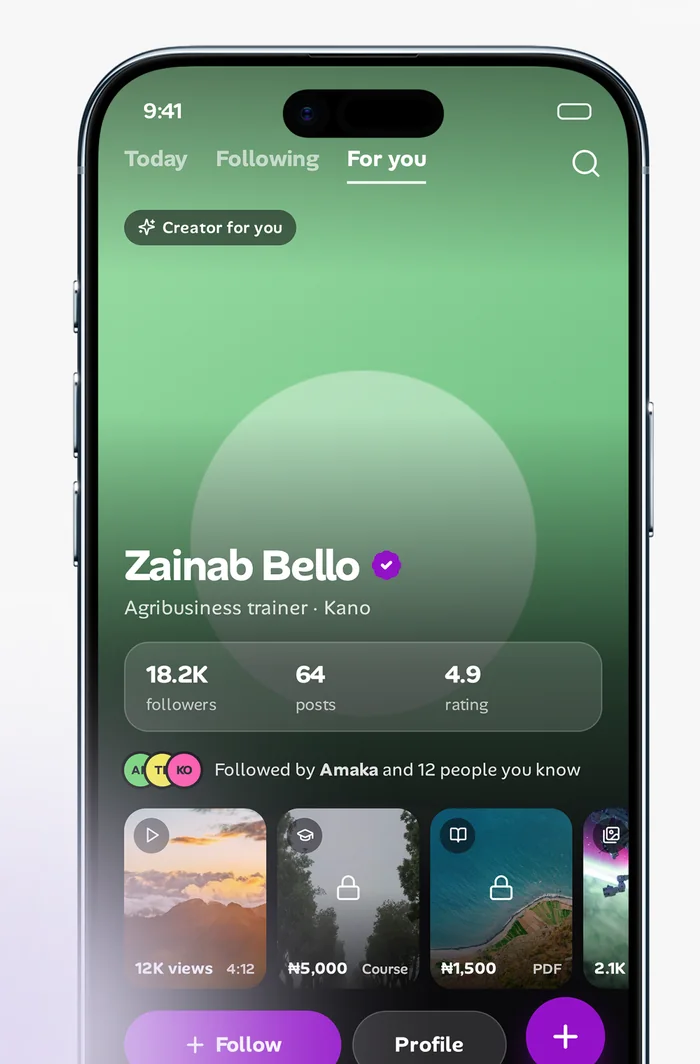
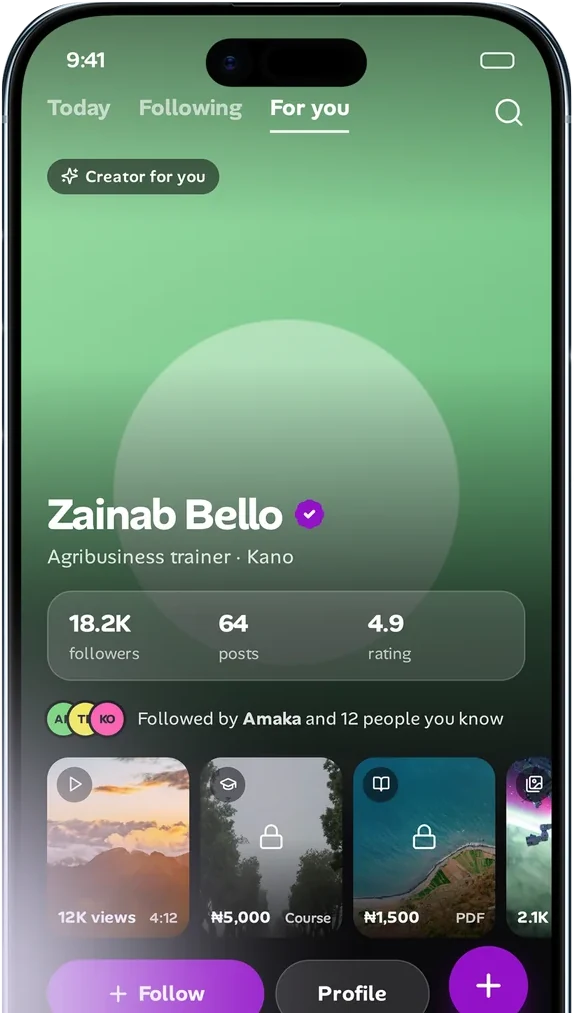
SITE-IMAGES: the owner's five app screenshots, phones on the section background, purple gradient instead of rings
Claude-Session: https://claude.ai/code/session_01YVWyVbutb6jEWsPXBkYeY9

diff --git a/src/app/(site)/_components/ScreenTile.tsx b/src/app/(site)/_components/ScreenTile.tsx
@@ -1,20 +1,26 @@
 import Image from "next/image";
 import { cn } from "@/lib/cn";
 
-export type ScreenId = "home" | "feed" | "creator" | "unlock";
+export type ScreenId = "today" | "wallet" | "dollar" | "explore" | "me" | "creator" | "unlock";
 
-/** The four WHO MADE THIS? screens the owner approved for the web (the store pictures, cropped to the phone). */
-export const WMT_SCREENS: Record<ScreenId, { alt: string; caption: string }> = {
-  home: { alt: "The Today screen in WHO MADE THIS?: a naira wallet with Send, Add and Scan, and shortcuts to Studio, Learn, Monetize and Legal.", caption: "Today: your wallet and everything you can do next." },
-  feed: { alt: "The For you feed in WHO MADE THIS?: a photo post with like, comment, save and tip buttons.", caption: "For you: work from creators, in photos, video and audio." },
-  creator: { alt: "A creator card in WHO MADE THIS?: followers, posts and rating, with a Follow button.", caption: "Follow the people whose work you like." },
-  unlock: { alt: "A paid PDF in WHO MADE THIS?: a preview of the cover, the price in naira and an Unlock button.", caption: "Unlock paid work: preview first, then pay from your wallet." },
+/**
+ * The WHO MADE THIS? screens on the site. Five are the owner's own phone screenshots (3 Nov 2026), and
+ * `creator` (Zainab Bello) and `unlock` (the paid PDF) are the two older ones he kept. Each file is cut to
+ * the phone with transparent corners, so it stands on the section's own background.
+ */
+export const WMT_SCREENS: Record<ScreenId, { alt: string; caption: string; width: number; height: number }> = {
+  today: { alt: "The Today screen in WHO MADE THIS?: a naira wallet with Send, Add and Scan, and shortcuts to Studio, Learn, Monetize and Legal.", caption: "Today: your wallet and everything you can do next.", width: 720, height: 1560 },
+  wallet: { alt: "The Wallet screen in WHO MADE THIS? on the Naira tab: a naira balance with account number, points, passes, and shortcuts to add money, send, withdraw and more.", caption: "Wallet: your naira balance, and what to do with it.", width: 720, height: 1560 },
+  dollar: { alt: "The Wallet screen in WHO MADE THIS? on its second tab: a balance with Send and Add buttons, a Get paid from abroad card and the latest transactions.", caption: "Wallet: get paid from abroad, and see every transaction.", width: 720, height: 1560 },
+  explore: { alt: "The Explore screen in WHO MADE THIS?: a featured event, the daily TGIF card, categories and creators to follow.", caption: "Explore: find creators, events and work.", width: 720, height: 1560 },
+  me: { alt: "A creator profile in WHO MADE THIS?: a photo, a bio, followers and following, and the creator's content.", caption: "Your profile: your work, your name.", width: 720, height: 1560 },
+  creator: { alt: "A creator card in WHO MADE THIS?: followers, posts and rating, with a Follow button.", caption: "Follow the people whose work you like.", width: 574, height: 1013 },
+  unlock: { alt: "A paid PDF in WHO MADE THIS?: a preview of the cover, the price in naira and an Unlock button.", caption: "Unlock paid work: preview first, then pay from your wallet.", width: 583, height: 1019 },
 };
 
 /**
- * One app screen in a rounded tile. The pictures are the owner's store
- * screenshots cropped to the phone, so the tile takes the picture's own
- * background (white or purple).
+ * One app screen, as the phone alone: no tile, panel or colour behind it. The
+ * soft shadow follows the phone's own rounded outline.
  */
 export function ScreenTile({
   id,
@@ -31,11 +37,11 @@ export function ScreenTile({
     <Image
       src={`/wawu-wmt-screen-${id}.webp`}
       alt={WMT_SCREENS[id].alt}
-      width={700}
-      height={1064}
+      width={WMT_SCREENS[id].width}
+      height={WMT_SCREENS[id].height}
       sizes={sizes}
       priority={priority}
-      className={cn("h-auto w-full rounded-[28px] shadow-site-screen", className)}
+      className={cn("site-shot h-auto w-full", className)}
     />
   );
 }

diff --git a/src/app/(site)/who-made-this/page.tsx b/src/app/(site)/who-made-this/page.tsx
@@ -57,7 +57,7 @@ export default function WhoMadeThisPage() {
               <ScreenTile id="unlock" sizes="(min-width: 1024px) 250px, 200px" />
             </div>
             <div className="site-float absolute right-0 top-0 w-[56%] rotate-[4deg] [--site-tilt:4deg]">
-              <ScreenTile id="feed" sizes="(min-width: 1024px) 250px, 200px" />
+              <ScreenTile id="me" sizes="(min-width: 1024px) 250px, 200px" />
             </div>
           </div>
         }
@@ -80,7 +80,7 @@ export default function WhoMadeThisPage() {
 
       <section aria-labelledby="screens-title" className="border-y border-site-line bg-white py-20 sm:py-28">
         <Wrap>
-          <SectionHead eyebrow="In the app" title={<span id="screens-title">See it.</span>} lead="Four screens from WHO MADE THIS?: your wallet, the feed, creators and paid work." />
+          <SectionHead eyebrow="In the app" title={<span id="screens-title">See it.</span>} lead="Four screens from WHO MADE THIS?: your wallet, Explore, creators and paid work." />
           <div className="mt-12">
             <ScreenGallery />
           </div>

diff --git a/src/app/(site)/page.tsx b/src/app/(site)/page.tsx
@@ -55,8 +55,7 @@ export default function HomePage() {
       <script type="application/ld+json" dangerouslySetInnerHTML={{ __html: JSON.stringify(ORGANIZATION) }} />
 
       <section className="on-dark relative isolate overflow-hidden bg-site-deep text-white">
-        <div aria-hidden="true" className="site-glow pointer-events-none absolute -right-56 -top-56 -z-10 h-[820px] w-[820px] rounded-full opacity-80" />
-        <div aria-hidden="true" className="site-rings pointer-events-none absolute -right-56 -top-56 -z-10 h-[820px] w-[820px] rounded-full" />
+        <div aria-hidden="true" className="site-hero-gradient pointer-events-none absolute inset-0 -z-10" />
         <Wrap className="grid items-center gap-10 pb-14 pt-12 sm:pt-16 lg:grid-cols-[1.2fr_0.8fr] lg:gap-6 lg:pb-24 lg:pt-20">
           <div className="min-w-0">
             <p className="site-rise m-0 mb-6 text-[13px] font-bold uppercase tracking-[0.16em] text-site-lilac">Built in Africa. Open to the world.</p>

diff --git a/src/app/(site)/_components/PageHero.tsx b/src/app/(site)/_components/PageHero.tsx
@@ -33,10 +33,7 @@ export function PageHero({
           <div aria-hidden="true" className="site-glow pointer-events-none absolute -right-40 -top-40 -z-10 h-[620px] w-[620px] rounded-full bg-site-green opacity-30 blur-3xl" />
         </>
       ) : (
-        <>
-          <div aria-hidden="true" className="site-glow pointer-events-none absolute -right-48 -top-48 -z-10 h-[720px] w-[720px] rounded-full opacity-80" />
-          <div aria-hidden="true" className="site-rings pointer-events-none absolute -right-48 -top-48 -z-10 h-[720px] w-[720px] rounded-full" />
-        </>
+        <div aria-hidden="true" className="site-hero-gradient pointer-events-none absolute inset-0 -z-10" />
       )}
       <Wrap className={cn("grid items-center gap-12 pb-16 pt-14 sm:pb-20 sm:pt-20 lg:pb-24 lg:pt-24", aside ? "lg:grid-cols-[1.15fr_0.85fr] lg:gap-8" : null)}>
         <div className="min-w-0">

diff --git a/src/app/(site)/_components/HeroScreens.tsx b/src/app/(site)/_components/HeroScreens.tsx
@@ -9,10 +9,10 @@ export function HeroScreens() {
   return (
     <div aria-hidden="true" className="relative mx-auto h-[320px] w-full max-w-[340px] sm:h-[470px] sm:max-w-[420px] lg:h-[480px] lg:max-w-[480px]">
       <div className="absolute left-0 top-6 w-[56%] -rotate-[5deg]">
-        <ScreenTile id="home" priority sizes="(min-width: 1024px) 270px, 200px" />
+        <ScreenTile id="today" priority sizes="(min-width: 1024px) 270px, 200px" />
       </div>
       <div className="site-float absolute right-0 top-0 w-[56%] rotate-[4deg] [--site-tilt:4deg]">
-        <ScreenTile id="feed" priority sizes="(min-width: 1024px) 270px, 200px" />
+        <ScreenTile id="wallet" priority sizes="(min-width: 1024px) 270px, 200px" />
       </div>
     </div>
   );

diff --git a/src/app/(site)/_components/AppTiles.tsx b/src/app/(site)/_components/AppTiles.tsx
@@ -27,7 +27,7 @@ export function AppTiles() {
             <ArrowIcon className="h-[18px] w-[18px] transition-transform duration-200 group-hover:translate-x-1 motion-reduce:transition-none" />
           </span>
           <div aria-hidden="true" className="pointer-events-none absolute -bottom-24 -right-4 w-[56%] max-w-[300px] rotate-[7deg] transition-transform duration-500 group-hover:rotate-[4deg] motion-reduce:transition-none sm:right-6 sm:w-[44%]">
-            <ScreenTile id="unlock" sizes="(min-width: 768px) 260px, 50vw" className="shadow-site-phone" />
+            <ScreenTile id="unlock" sizes="(min-width: 768px) 260px, 50vw" />
           </div>
         </Link>
       </li>

diff --git a/src/app/(site)/site.css b/src/app/(site)/site.css
@@ -70,11 +70,11 @@ body:has(.wawu-site) {
 }
 
 /* ---- decoration (all aria-hidden in the markup) ---- */
-.site-rings {
-  background: repeating-radial-gradient(circle, var(--site-purple) 0 2px, transparent 2px 24px);
-  -webkit-mask-image: radial-gradient(circle, #000 0 35%, transparent 72%);
-  mask-image: radial-gradient(circle, #000 0 35%, transparent 72%);
-  opacity: 0.7;
+.site-hero-gradient {
+  background: linear-gradient(165deg, var(--site-deep) 30%, var(--site-purple) 150%);
+}
+.site-shot {
+  filter: drop-shadow(0 18px 24px rgb(18 6 31 / 0.35));
 }
 .site-glow {
   background: radial-gradient(60% 60% at 50% 50%, rgb(148 17 201 / 0.55), transparent 70%);

diff --git a/src/app/(site)/_components/ScreenGallery.tsx b/src/app/(site)/_components/ScreenGallery.tsx
@@ -1,6 +1,6 @@
 import { WMT_SCREENS, ScreenTile, type ScreenId } from "./ScreenTile";
 
-const ORDER: ScreenId[] = ["home", "feed", "creator", "unlock"];
+const ORDER: ScreenId[] = ["dollar", "explore", "creator", "unlock"];
 
 /**
  * The four screens in a row. On a phone the row scrolls sideways (it can be
